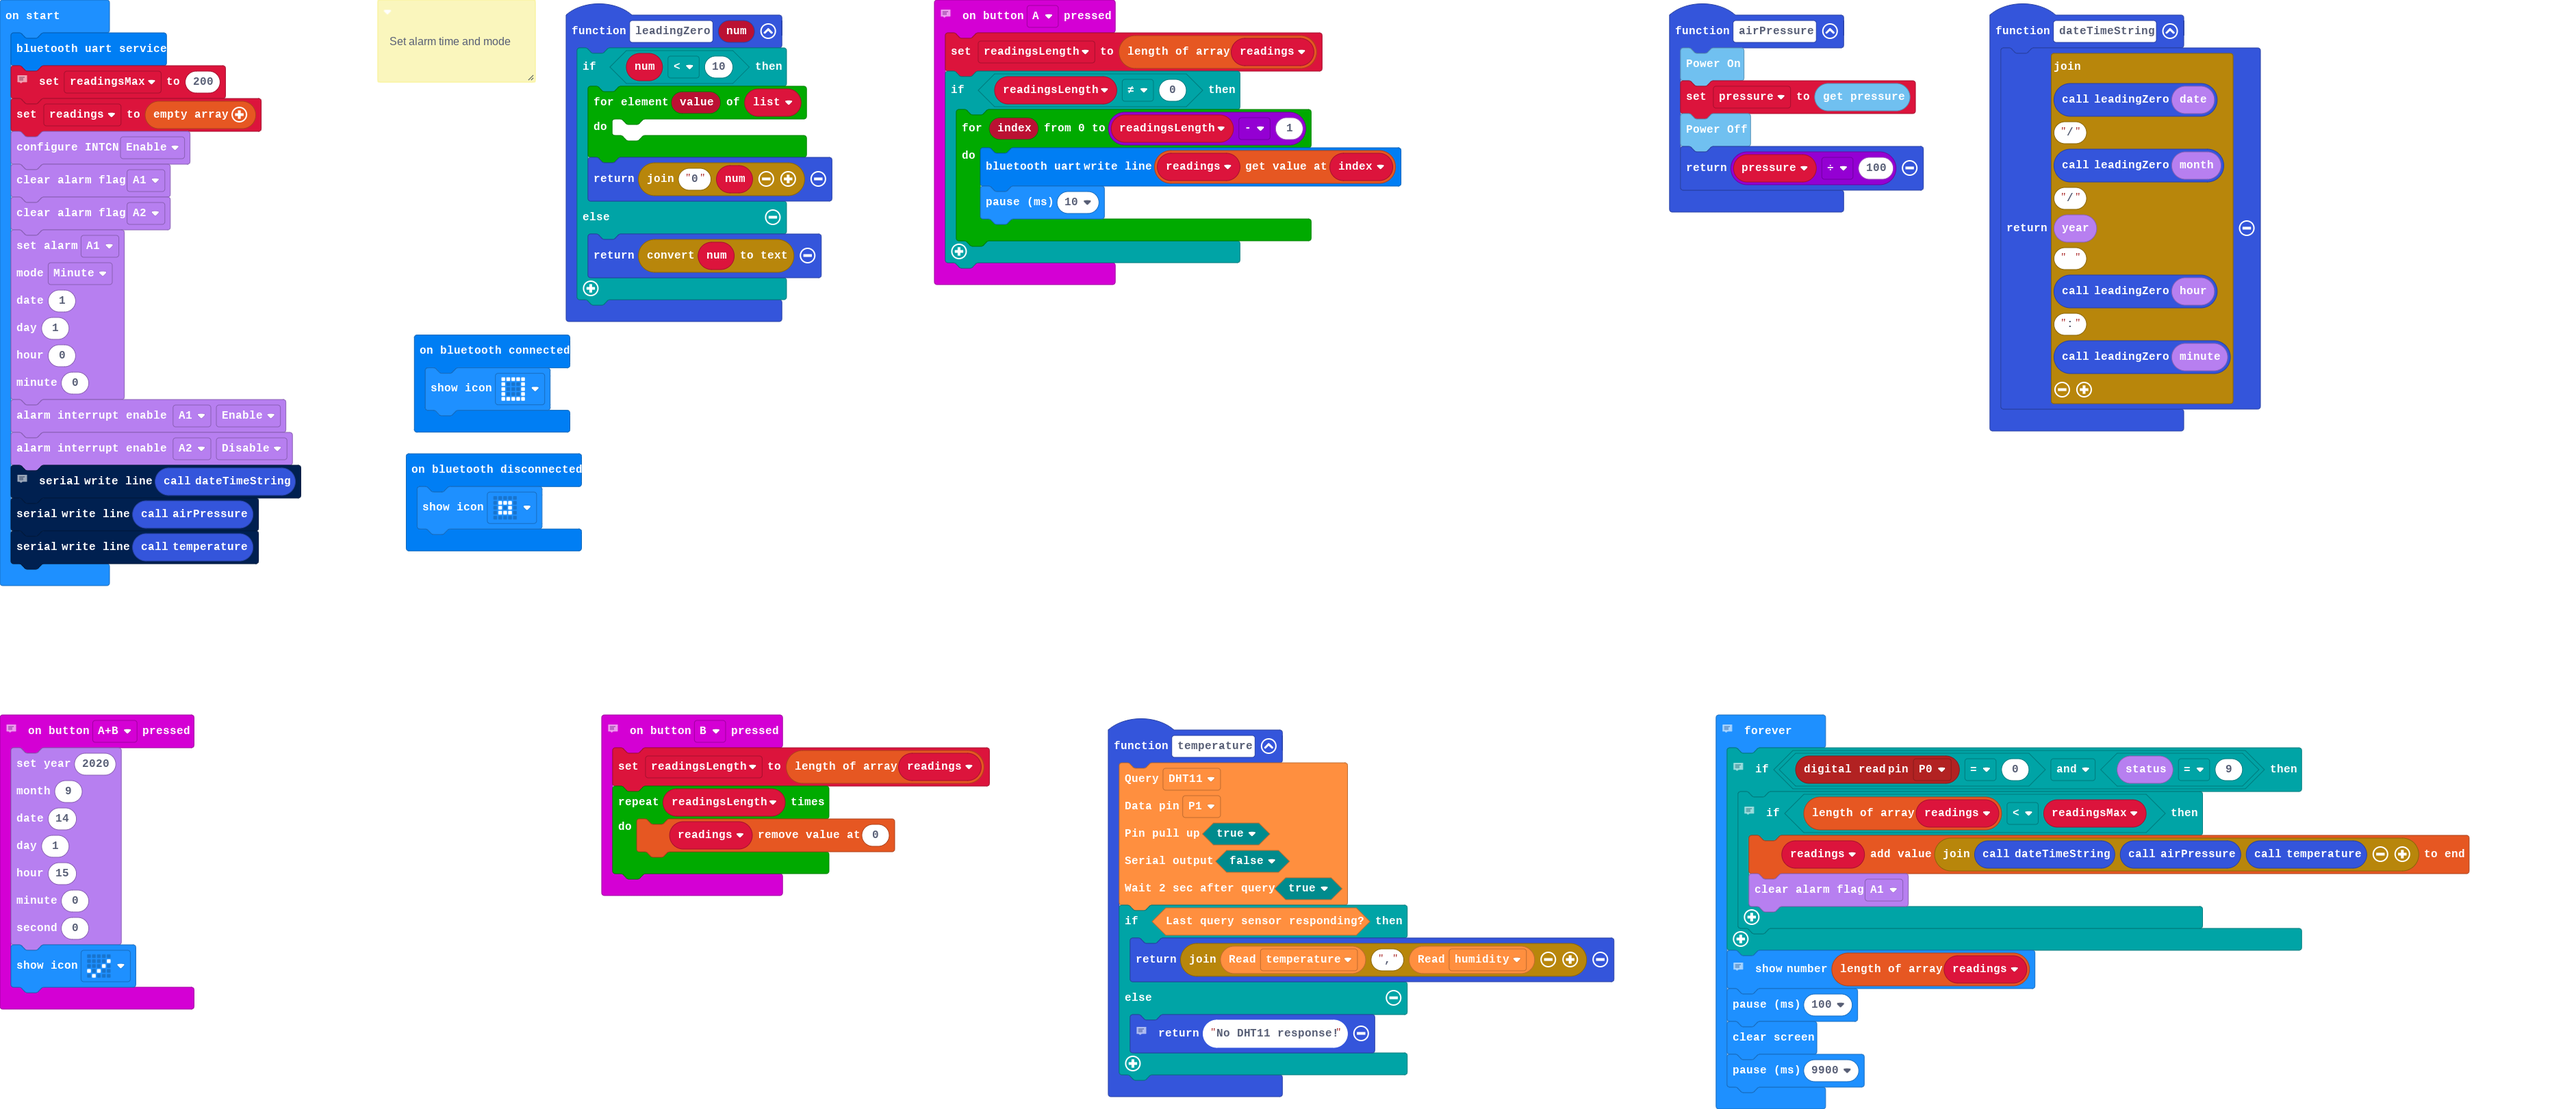
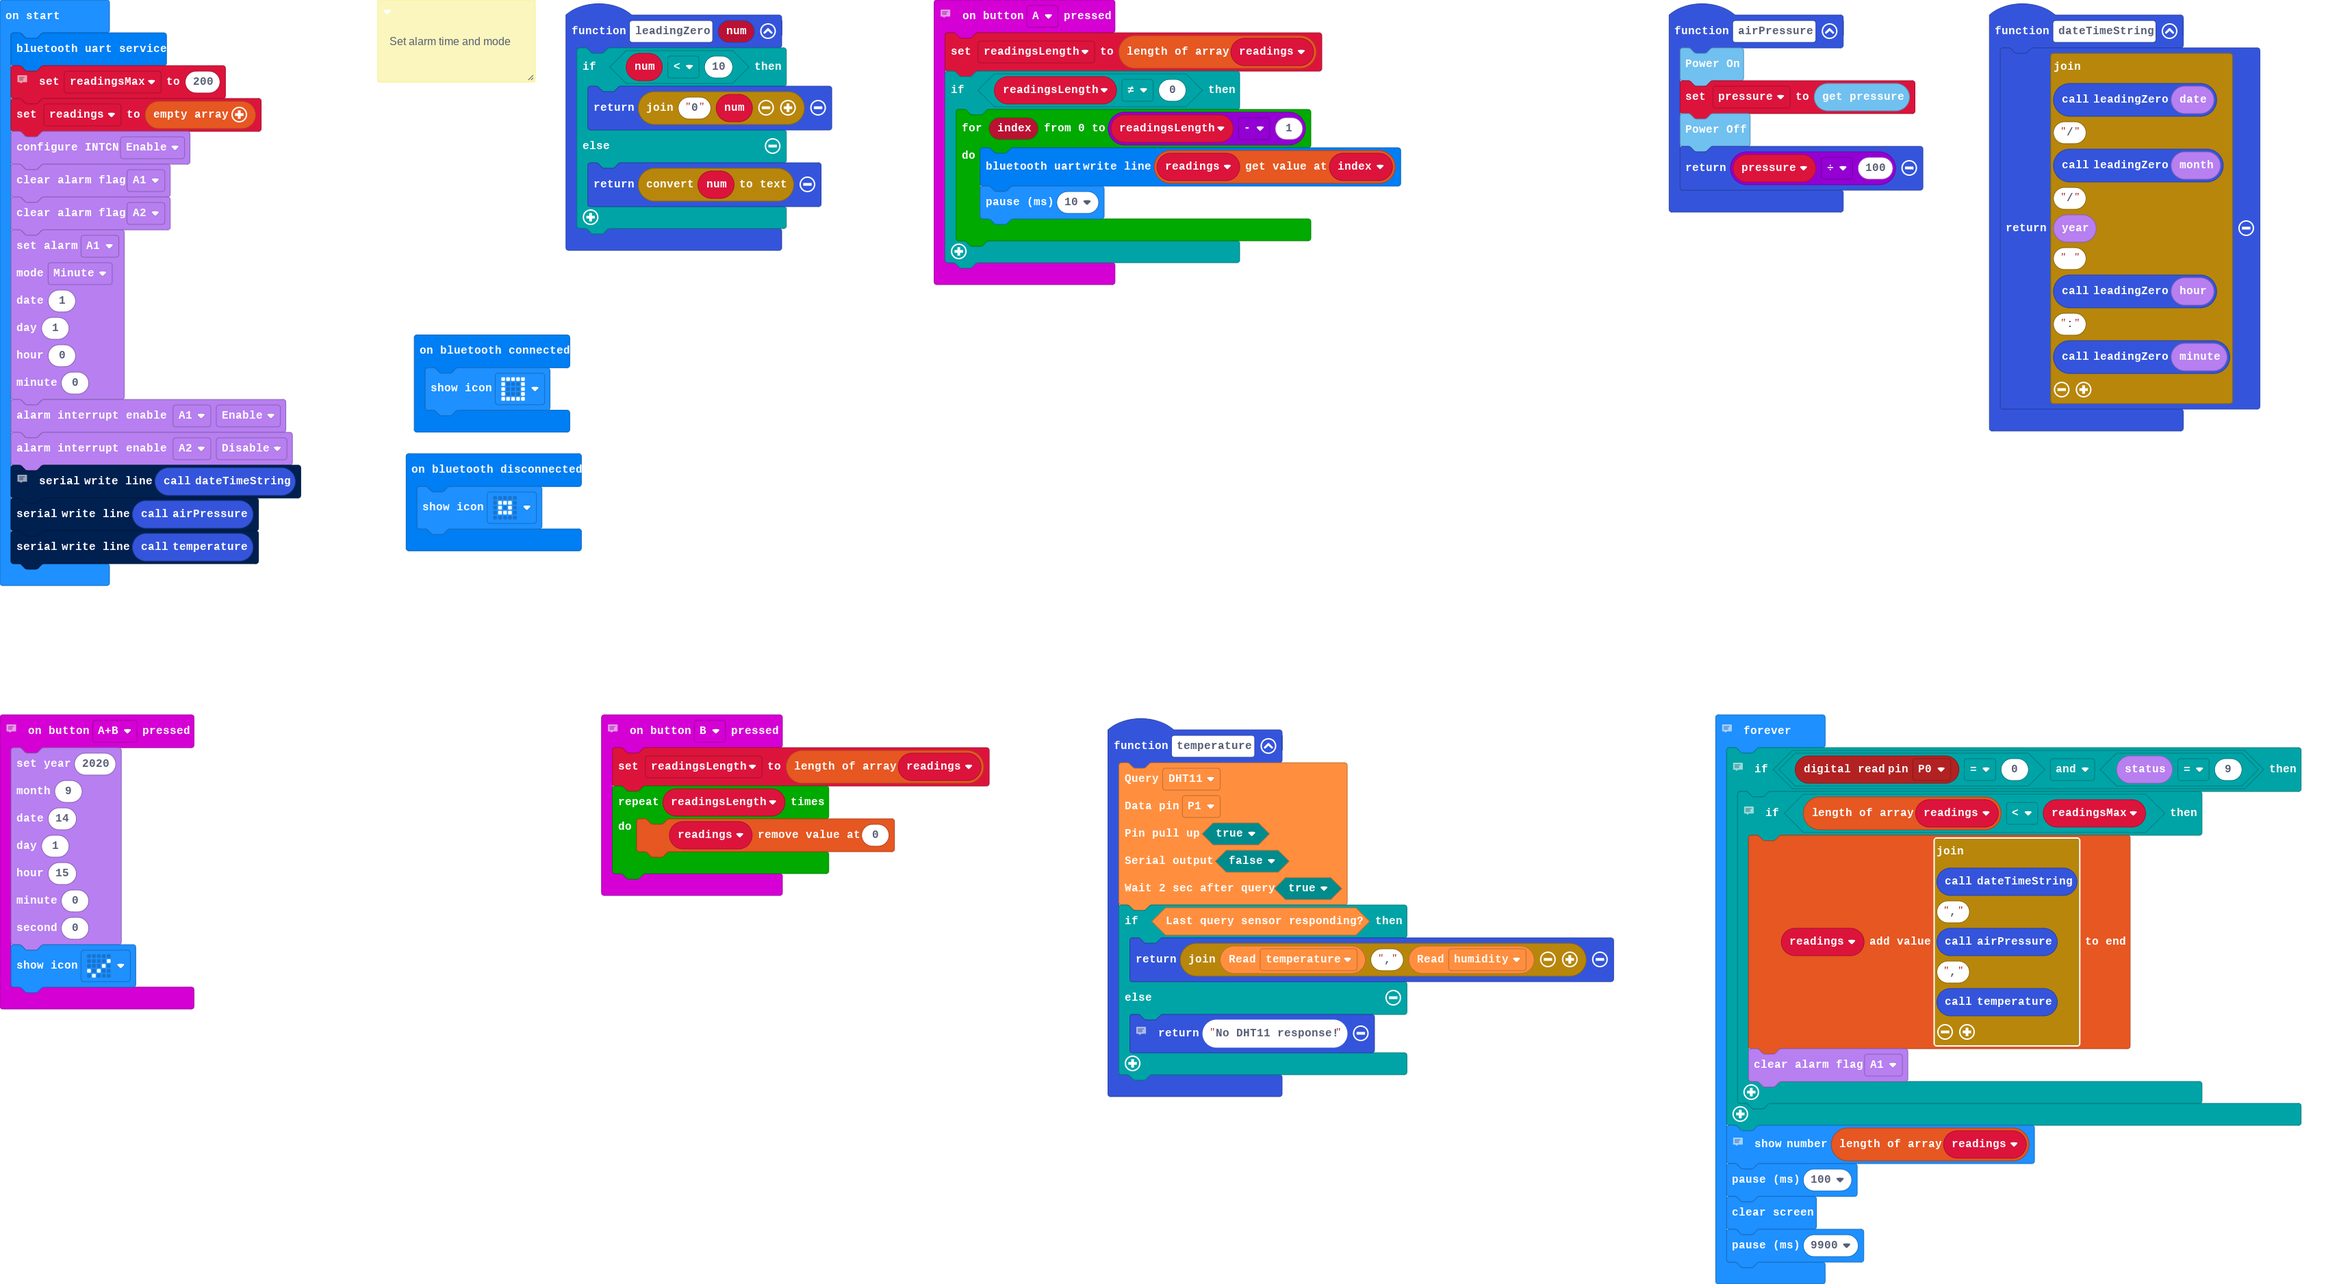
added commas

diff --git a/main.ts b/main.ts
@@ -3,10 +3,6 @@
  */
 function leadingZero (num: number) {
     if (num < 10) {
-        let list: number[] = []
-        for (let value of list) {
-        	
-        }
         return "0" + num
     } else {
         return convertToText(num)
@@ -102,7 +98,7 @@ basic.forever(function () {
     if (pins.digitalReadPin(DigitalPin.P0) == 0 && DS3231.status() == 9) {
         // Limit the number of stored readings
         if (readings.length < readingsMax) {
-            readings.push("" + dateTimeString() + airPressure() + temperature())
+            readings.push("" + dateTimeString() + "," + airPressure() + "," + temperature())
             DS3231.clearAlarmFlag(alarmNum.A1)
         }
     }
